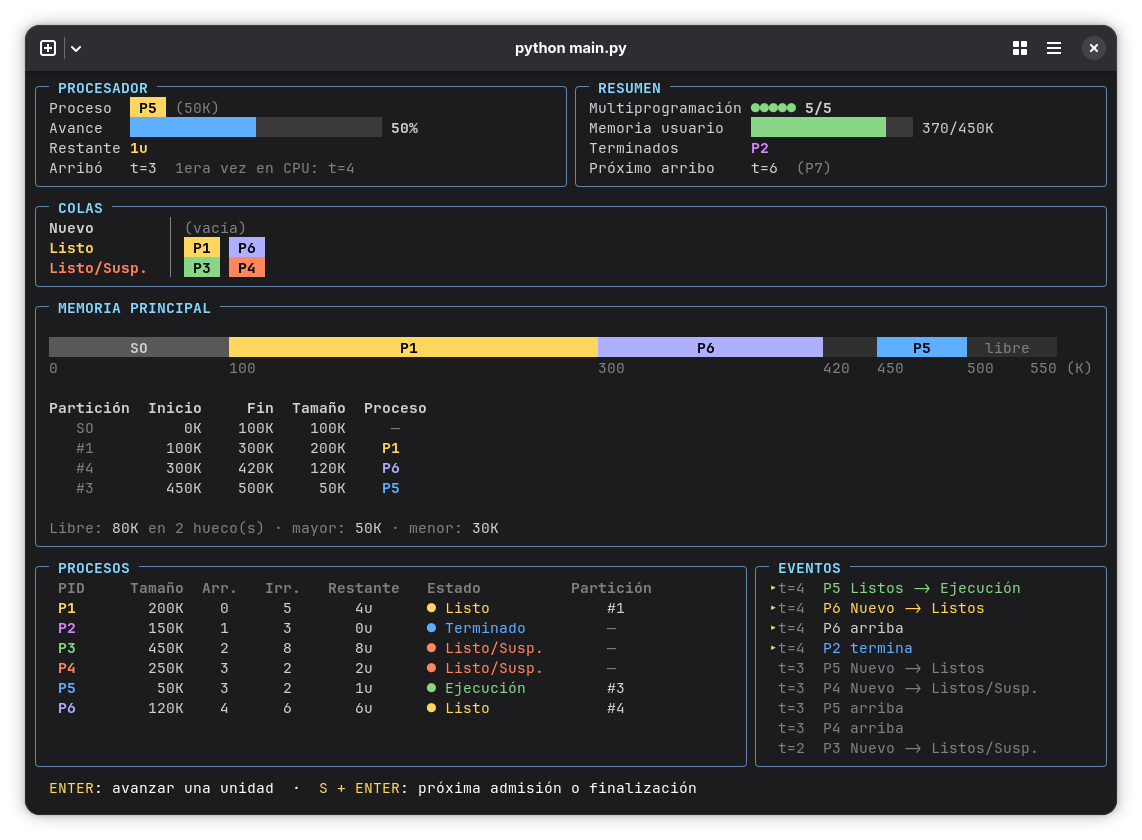
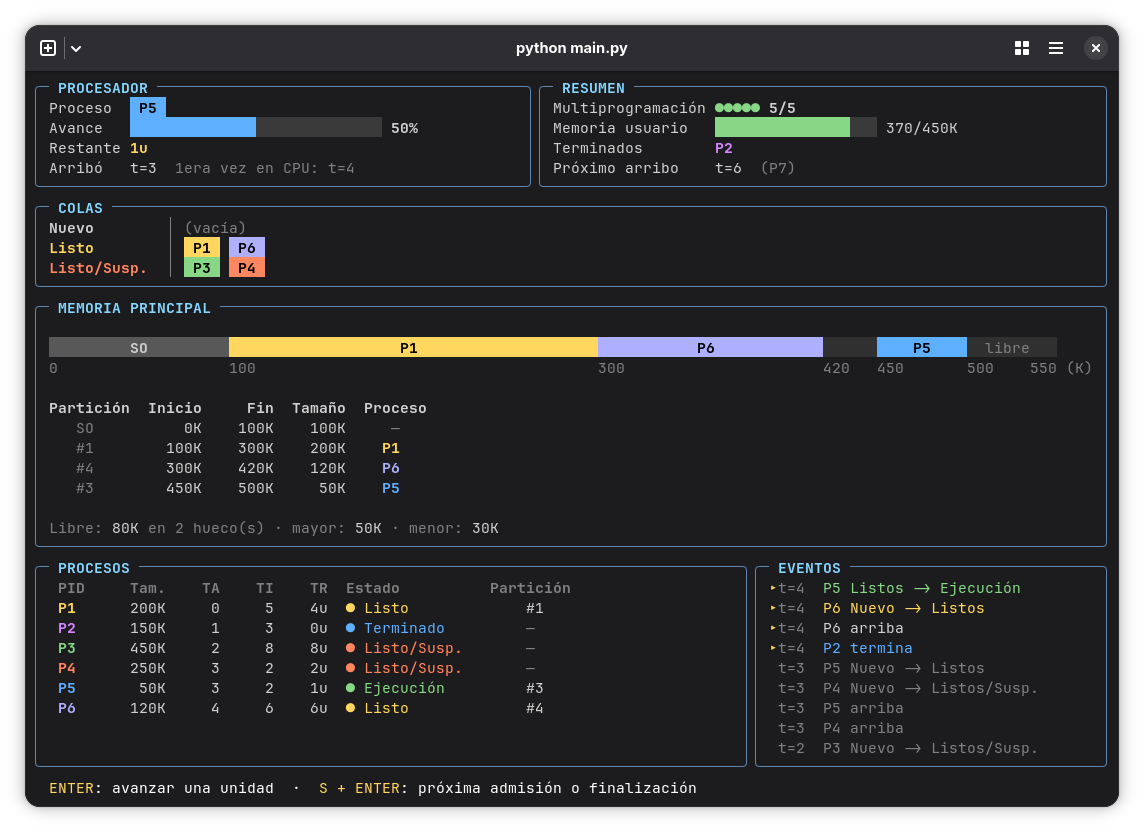
Eliminación de tamaño de proceso en panel de procesador

diff --git a/cli.py b/cli.py
@@ -337,7 +337,7 @@ def _cpu_rows(report: Report) -> list[str]:
     executed = burst - remaining
     percentage = round(executed / burst * 100) if burst > 0 else 0
 
-    process = f"{_process_badge(pcb.identity.pid)} {GRAY}({pcb.spec.size}K){RESET}"
+    process = f"{_process_badge(pcb.identity.pid)}{RESET}"
 
     progress = (
         f"{_bar(executed, burst, bar_width, BLUE)} {WHITE}{BOLD}{percentage}%{RESET}"
